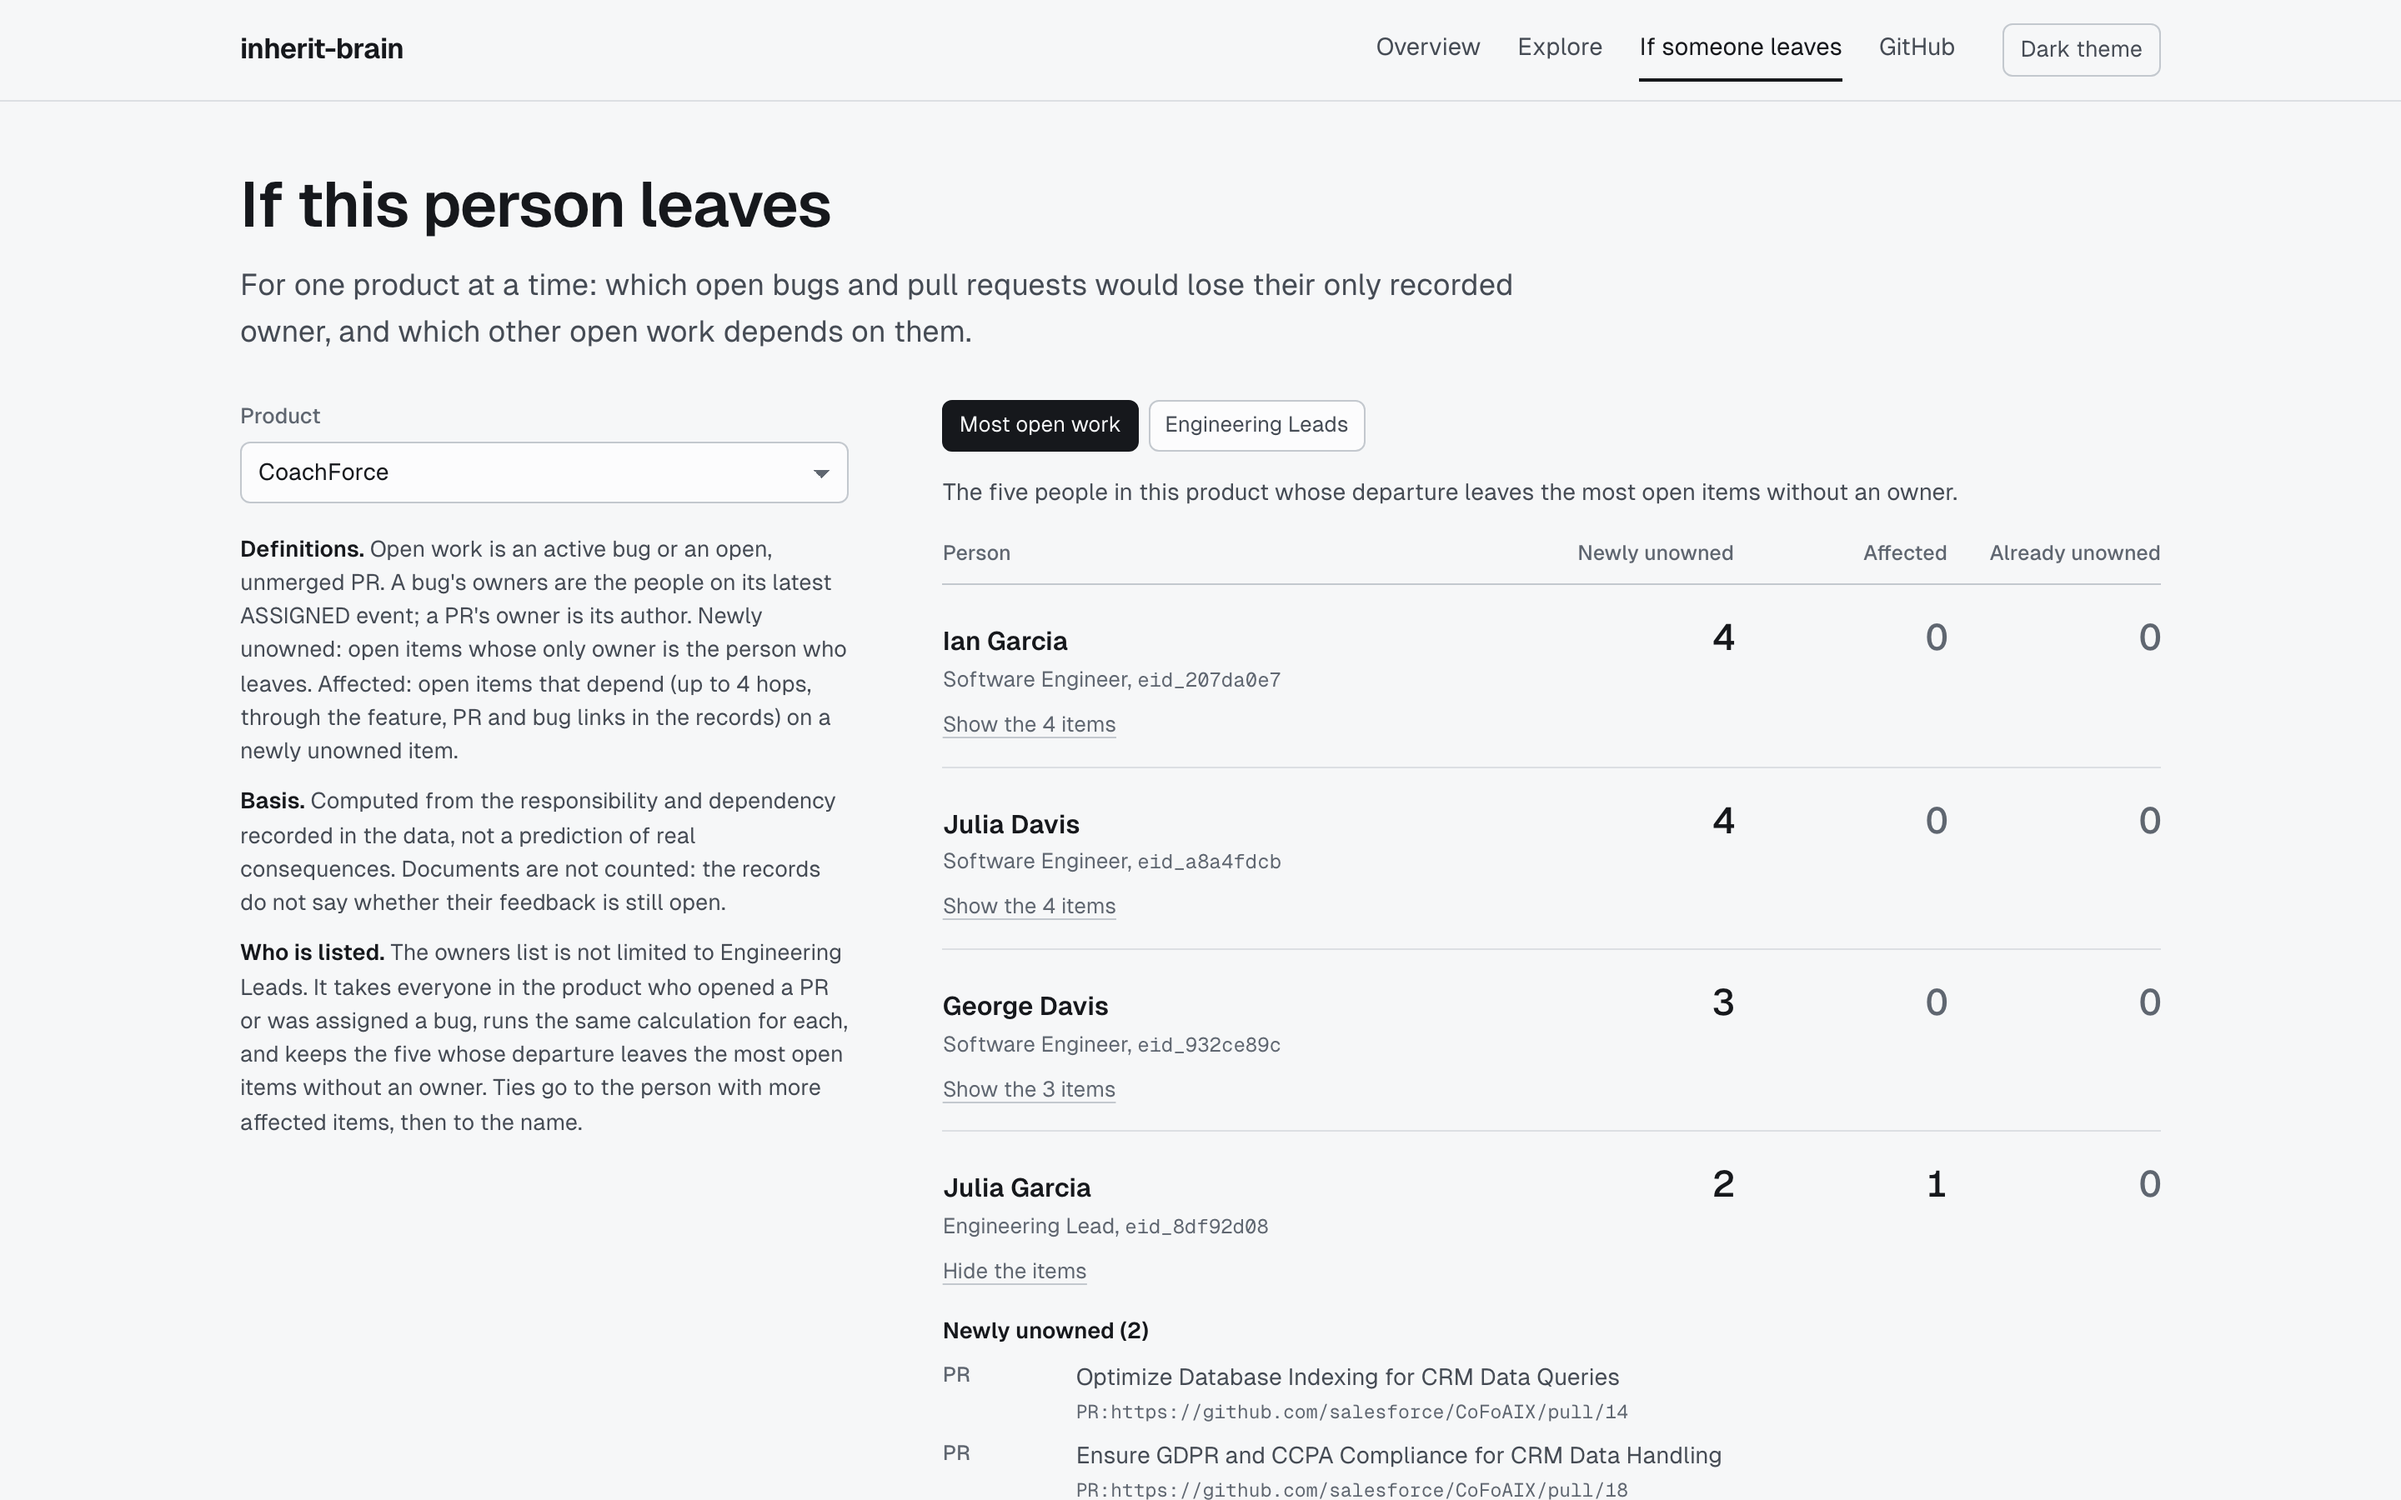
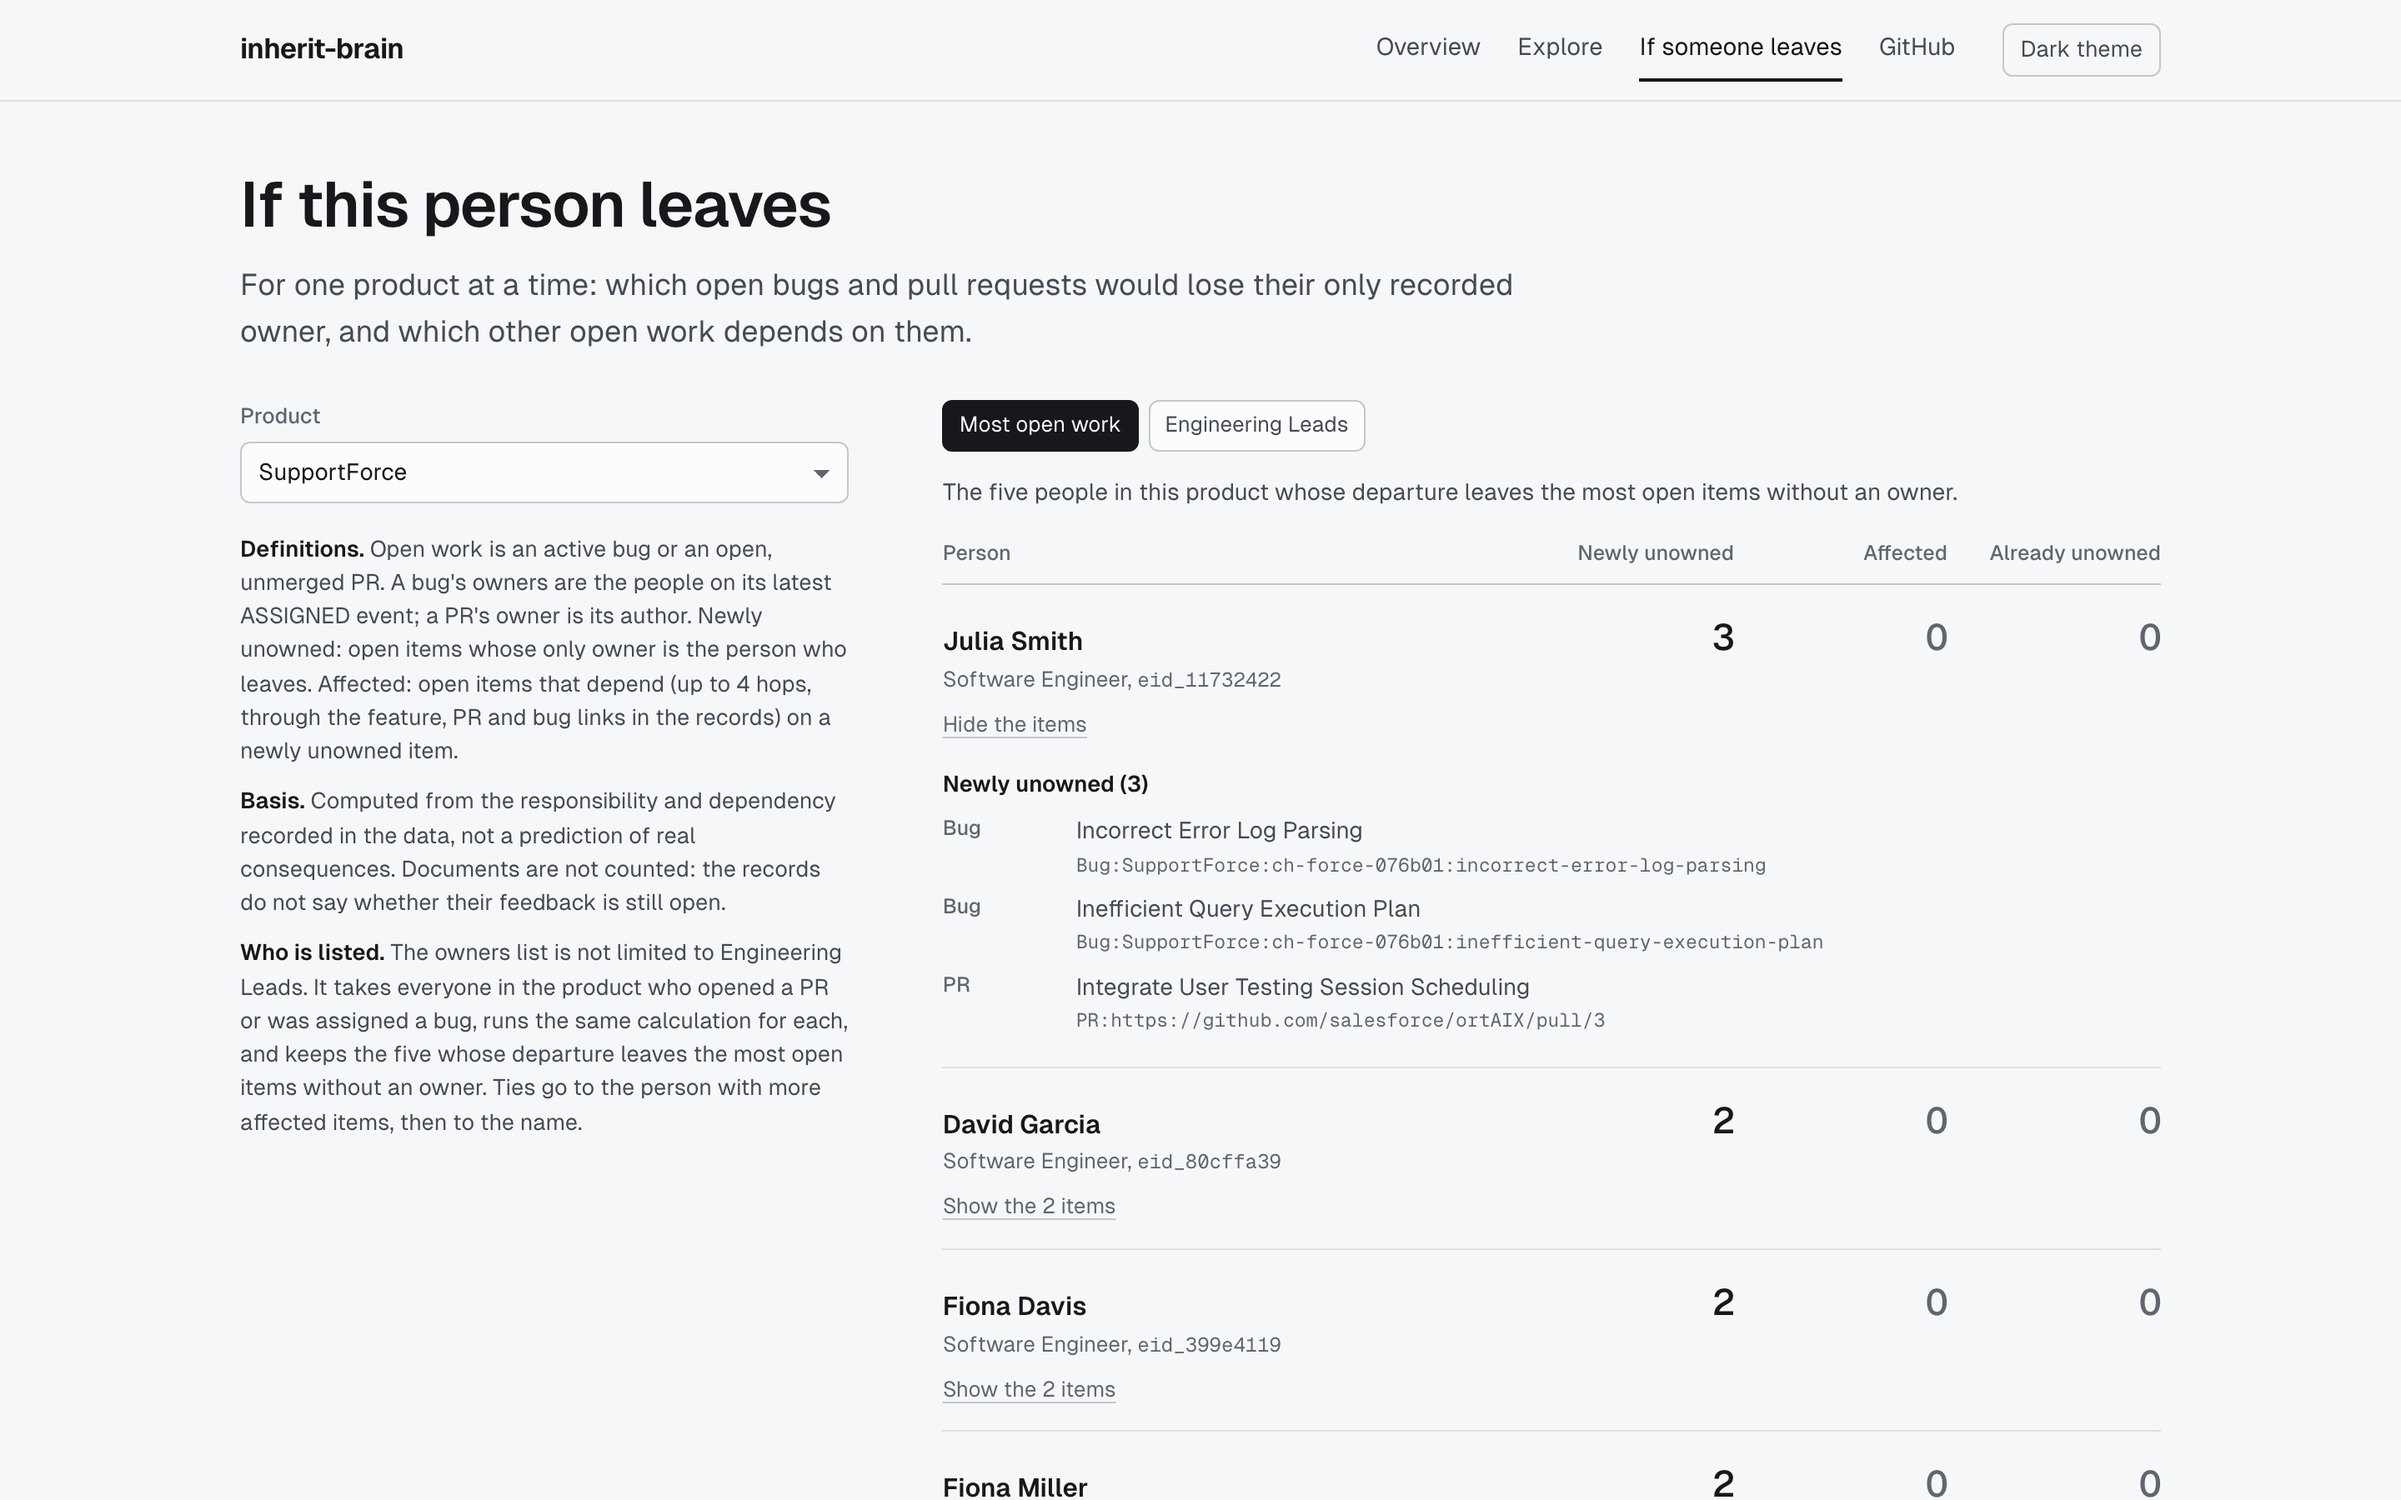
Site: removal test row names tools and data together; what-if deep link by product; blog images

diff --git a/site/assets/js/overview.js b/site/assets/js/overview.js
@@ -98,7 +98,7 @@ function renderRemoval(ov, A, hyp) {
     <tbody>
       ${row("Model", "Qwen3-30B-A3B-Instruct-2507 on Nebius", "Same")}
       ${row("Limits", `<span data-lit="arms.A0.description">12 tool calls</span>, <span data-lit="arms.A0.description">60,000 input tokens</span> per question`, "Same")}
-      ${row(`Tools<span class="only">The only change</span>`, "Nine read-only typed tools; each runs fixed Cypher on the product's FalkorDB graph", "The HERB paper's retrieval tools over the raw records", "diff")}
+      ${row(`Tools and data<span class="only">What differs</span>`, "Nine read-only typed tools; each runs fixed Cypher on the product's FalkorDB graph, built from the extracted facts", "HERB's own retrieval tools over the raw records", "diff")}
       ${row("Primary endpoint", `<span class="big a5">${v("arms.A5.primary", A.A5.primary)}</span>`, `<span class="big">${v("arms.A0.primary", A.A0.primary)}</span>`)}
       ${row("Median input tokens", v("arms.A5.median_input_tokens", A.A5.median_input_tokens, "int"), v("arms.A0.median_input_tokens", A.A0.median_input_tokens, "int"))}
       ${row("Stopped on the token budget", v("arms.A5.budget_stop_rate", A.A5.budget_stop_rate, "raw"), v("arms.A0.budget_stop_rate", A.A0.budget_stop_rate, "raw"))}

diff --git a/site/assets/js/whatif.js b/site/assets/js/whatif.js
@@ -76,7 +76,8 @@ async function main() {
   }
   const names = Object.keys(data.products);
   $("wi-product").innerHTML = names.map((n) => `<option value="${esc(n)}">${esc(n)}</option>`).join("");
-  const s = storedProduct();
+  const h = new URLSearchParams(location.hash.slice(1)).get("p");  // deep link: whatif.html#p=<product>
+  const s = h && data.products[h] ? h : storedProduct();
   const first = names.find((n) => data.products[n].owners.some((o) => o.counts.affected > 0)) || names[0];
   $("wi-product").value = s && data.products[s] ? s : first;
   $("defs").innerHTML = `<p><b>Definitions.</b> ${escClean(data.definitions)}</p><p><b>Basis.</b> ${escClean(data.basis)}</p><p><b>Who is listed.</b> ${escClean(data.owners_note)}</p>`;
